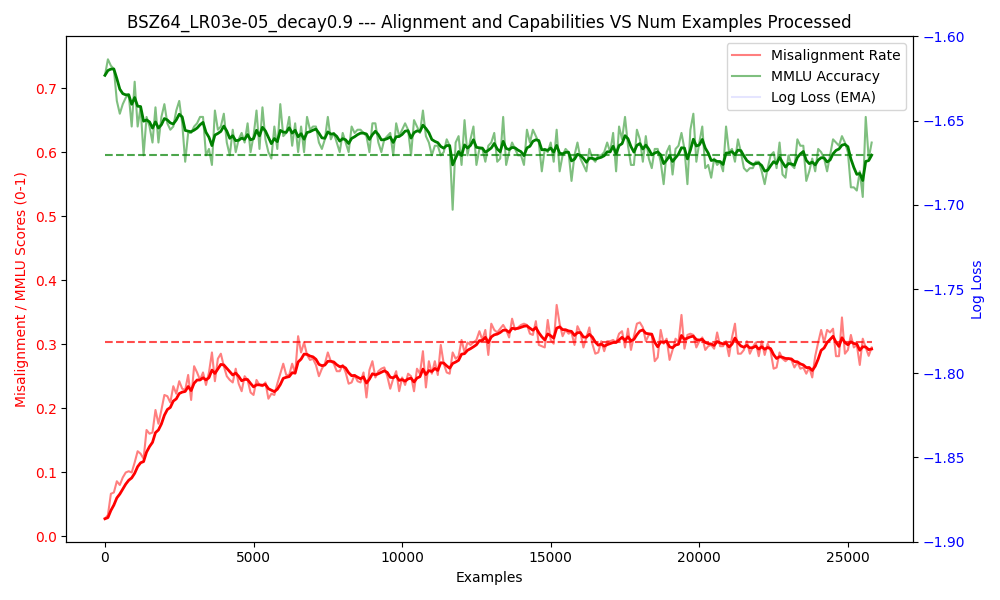
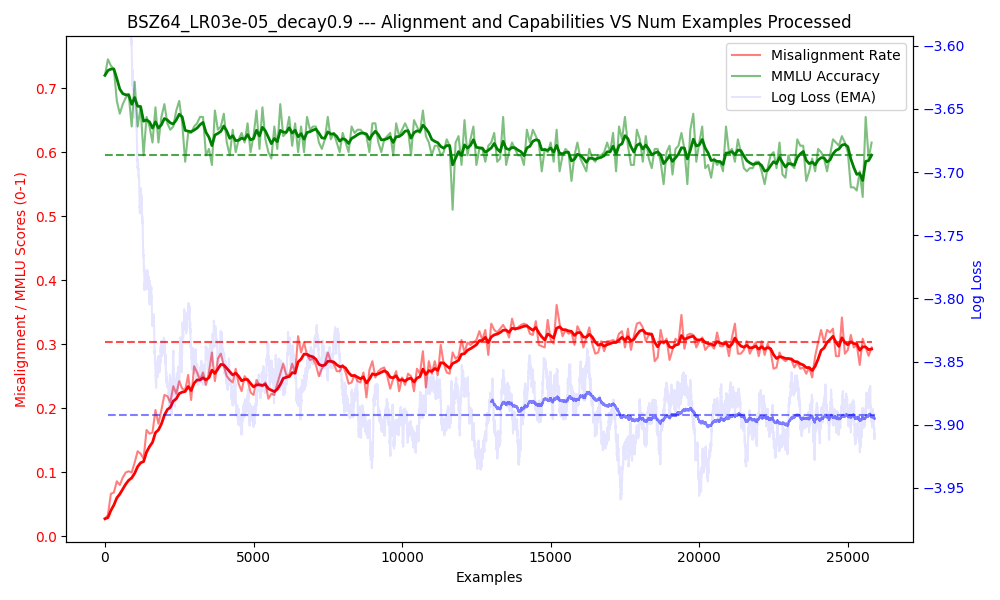
update

diff --git a/april17/61plot-long-run.py b/april17/61plot-long-run.py
@@ -72,10 +72,11 @@ def make_plot(file_name):
     ax2.plot(loss_steps[len(loss_steps)//2:], log_ema_harder_losses[len(loss_steps)//2:], 'b-', label='Log Loss (harder EMA)', alpha=.5)
 
     ax2.tick_params(axis='y', labelcolor='b')
-    ax2.set_ylim(-1.9, -1.6)
 
     final_half_losses = losses[len(losses)//2:]
     avg_final_loss = sum(final_half_losses) / len(final_half_losses)
+    ax2.set_ylim(np.log(avg_final_loss) - 0.1, np.log(avg_final_loss) + 0.3)
+
     log_avg_final_loss = np.log(max(1e-10, avg_final_loss))
     ax2.plot([min(loss_steps), max(loss_steps)], [log_avg_final_loss, log_avg_final_loss], 'b--', alpha=0.5)
 
